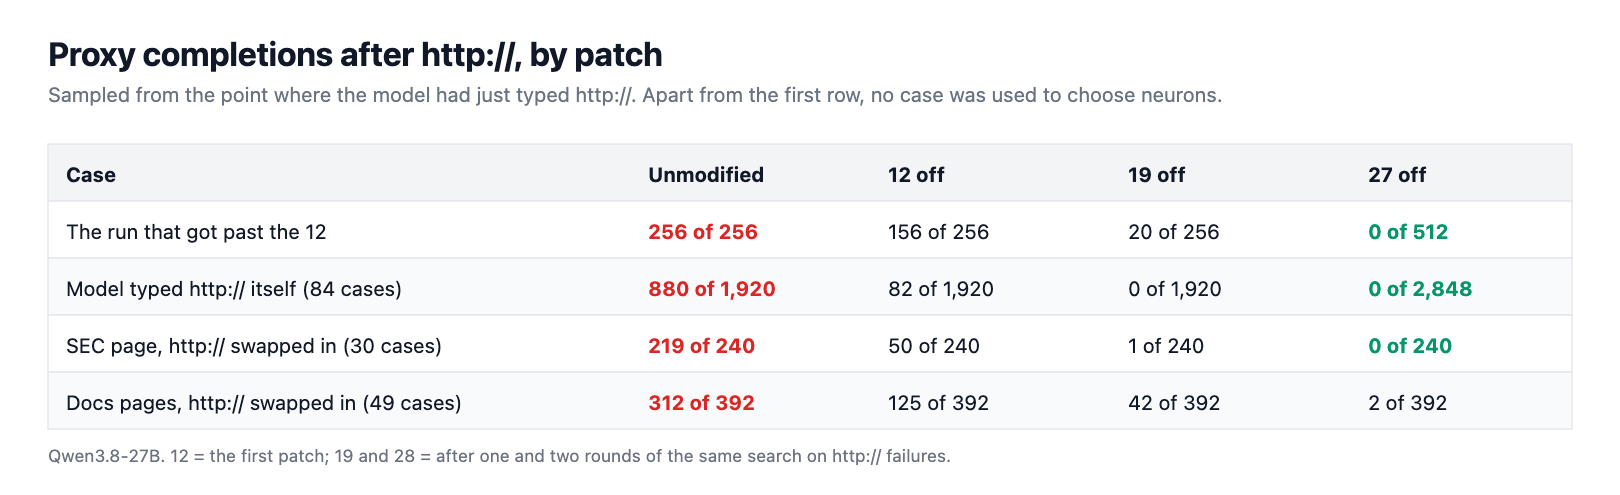
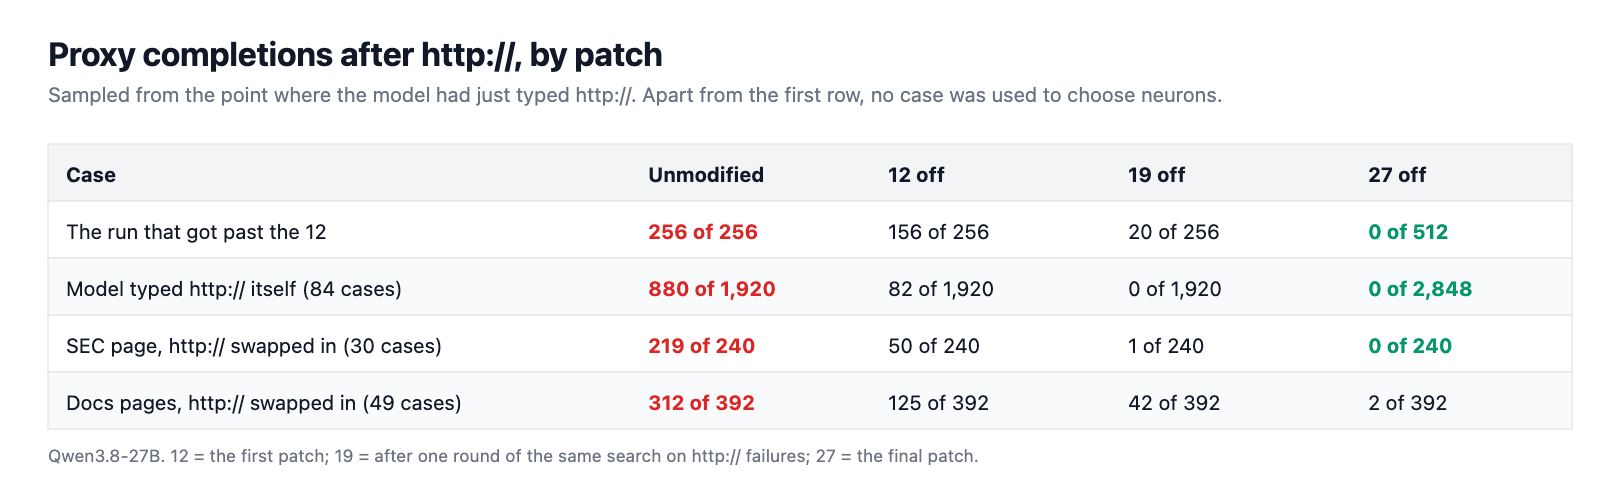
Address the bot reviews: http_report CLI order, Jina completeness, http-table footer
- Move the http_report __main__ guard below round3 so python -m qwen_lab.http_report runs.
- The Jina phase is complete only when every task reached specificity_samples rows.
- The http-table footer names the final column as the 27-neuron patch; SVG and PNGs regenerated.

Changed region(s): [[0.216, 0.9091, 0.6173, 0.9394]]

diff --git a/qwen_lab/http_report.py b/qwen_lab/http_report.py
@@ -160,7 +160,6 @@ def build(runs='runs',legacy='./runs',out='http-path-results.json'):
     return report
 
 
-if __name__=='__main__':round3(*sys.argv[1:])  # round 3 built the published http-path-results.json; build() is round 2
 
 
 ARMS4=['unpatched','all12','combined','refined']
@@ -268,3 +267,6 @@ def round3(runs='runs',legacy='./runs',out='http-path-results.json'):
         ledger={k:x for k,x in load('data/http/budget.json').items() if k in ('phase_cap_usd','phase_estimate_usd','research_estimate_usd','prior_research_estimate_usd','research_cap_usd')})
     Path(out).write_text(json.dumps(json.loads(redact(json.dumps(report))),indent=1)+'\n')
     return report
+
+
+if __name__=='__main__':round3(*sys.argv[1:])  # round 3 built the published http-path-results.json; build() is round 2

diff --git a/qwen_lab/http_path.py b/qwen_lab/http_path.py
@@ -780,7 +780,7 @@ def jina(model,tok,config,root,folder,deadline):
     """The explicit-request check the post lacked: r.jina.ai asked for by name, 16 samples per task, every arm. The shipped sets first."""
     arms=[('all27',config['all27']),('all11',config['all11']),('refined',config['refined']),('all12',config['neurons']),('unpatched',[])]
     out=explicit_checks(model,tok,arms,config['protocol'],folder,deadline,items=jina_items())
-    return dict(complete=len(out)==len(arms)*len(jina_items()),specificity=out)
+    return dict(complete=len(out)==len(arms)*len(jina_items()) and all(r['n']==config['protocol']['specificity_samples'] for r in out),specificity=out)
 
 
 def validate_refined(model,tok,config,root,folder,deadline):

diff --git a/figures/make_figures.py b/figures/make_figures.py
@@ -173,7 +173,7 @@ def http_table():
                 col, wt = RED, 700
             b += text(xs[c] + 12, y + 25, cell, 13.5, col, wt)
         y += 38
-    b += text(32, h - 22, "Qwen3.8-27B. 12 = the first patch; 19 and 28 = after one and two rounds of the same search on http:// failures.",
+    b += text(32, h - 22, "Qwen3.8-27B. 12 = the first patch; 19 = after one round of the same search on http:// failures; 27 = the final patch.",
               11.5, MUTED)
     return svg(w, h, b, "Proxy completions after http://")
 
